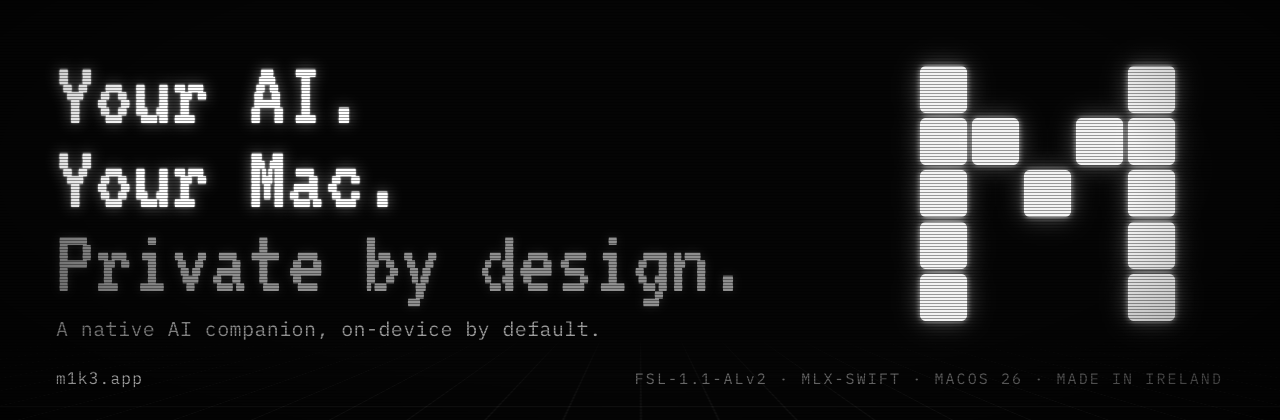
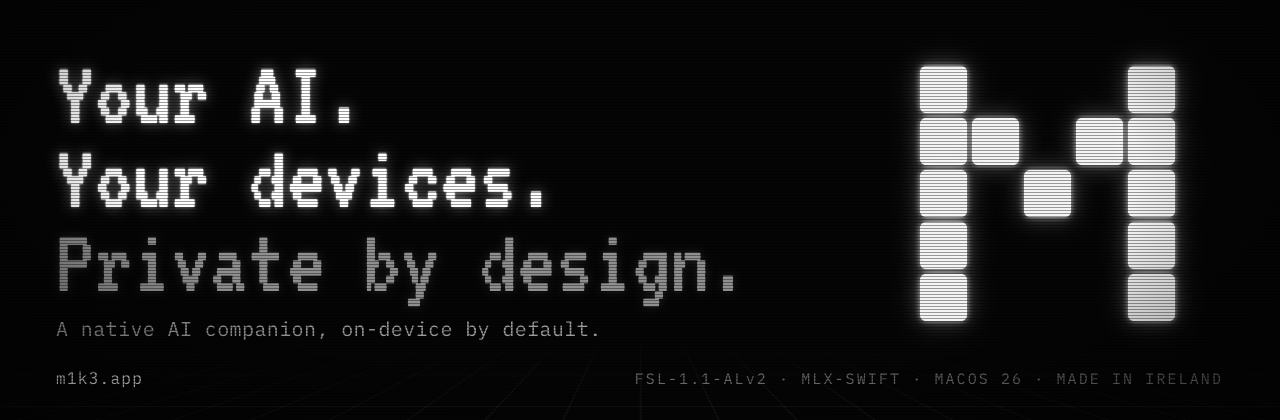
feat(brand): "Your AI. Your devices. Private by design." across the site, README and brand images (#664)
Kev's 2026-10-20 ruling: once iOS is live the tagline moves from 'Your Mac' to
'Your devices' in one pass. iOS 1.2.0 went live 2026-10-21. The home page's
title, og/twitter titles, h1 and hero sub, every page's og:image alt, the
README H1, SECURITY.md's promise and the manifest now say devices; og.png and
readme-hero.png are re-rendered (the share card's button reads 'Get it on the
App Store'). test_tagline.py pins one line everywhere. The App Store subtitle
never carried the tagline, so the store needs nothing.

Claude-Session: https://claude.ai/code/session_0144GMC5JuSWkq1nJjRUSict

Changed region(s): [[0.1875, 0.3405, 0.4375, 0.4952]]

diff --git a/site/index.html b/site/index.html
@@ -3,8 +3,8 @@
 <head>
 <meta charset="UTF-8" />
 <meta name="viewport" content="width=device-width, initial-scale=1.0" />
-<title>M1K3 for Mac — Your AI. Your Mac. Private by design.</title>
-<meta name="description" content="M1K3 is on-device AI for macOS. Local inference, live voice, a knowledge graph, encrypted call memory, and an MCP server — on your Mac by default, private by design." />
+<title>M1K3 — Your AI. Your devices. Private by design.</title>
+<meta name="description" content="M1K3 is on-device AI for Mac, iPhone and iPad. Local inference, live voice, a knowledge graph, encrypted call memory, and an MCP server — on your devices by default, private by design." />
 <meta name="robots" content="index, follow, max-image-preview:large, max-snippet:-1, max-video-preview:-1" />
 <!-- NOTE: canonical domain: m1k3.app (m1k3.ai + m1k3.bot 301-redirect here) (also in sitemap.xml, robots.txt, llms.txt) -->
 <link rel="canonical" href="https://m1k3.app/" />
@@ -28,19 +28,19 @@
 <meta name="theme-color" content="#050505" />
 <meta property="og:site_name" content="M1K3" />
 <meta property="og:locale" content="en_IE" />
-<meta property="og:title" content="M1K3 for Mac — Your AI. Your Mac. Private by design." />
-<meta property="og:description" content="Privacy-first local AI. On-device inference, voice, knowledge graph, MCP. Private by design — on your Mac by default." />
+<meta property="og:title" content="M1K3 — Your AI. Your devices. Private by design." />
+<meta property="og:description" content="Privacy-first local AI. On-device inference, voice, knowledge graph, MCP. Private by design — on your devices by default." />
 <meta property="og:type" content="website" />
 <meta property="og:url" content="https://m1k3.app/" />
 <meta property="og:image" content="https://m1k3.app/og.png" />
 <meta property="og:image:width" content="1200" />
 <meta property="og:image:height" content="630" />
-<meta property="og:image:alt" content="M1K3 for Mac — 'Your AI. Your Mac. Private by design.' A wireframe fox on a dark CRT grid; private, on-device AI for macOS." />
+<meta property="og:image:alt" content="M1K3 — 'Your AI. Your devices. Private by design.' A wireframe fox on a dark CRT grid; private, on-device AI for Mac, iPhone and iPad." />
 <meta name="twitter:card" content="summary_large_image" />
-<meta name="twitter:title" content="M1K3 for Mac — Your AI. Your Mac. Private by design." />
-<meta name="twitter:description" content="Privacy-first local AI for macOS. Private by design, on your Mac by default." />
+<meta name="twitter:title" content="M1K3 — Your AI. Your devices. Private by design." />
+<meta name="twitter:description" content="Privacy-first local AI for Mac, iPhone and iPad. Private by design, on your devices by default." />
 <meta name="twitter:image" content="https://m1k3.app/og.png" />
-<meta name="twitter:image:alt" content="M1K3 for Mac — 'Your AI. Your Mac. Private by design.' A wireframe fox on a dark CRT grid." />
+<meta name="twitter:image:alt" content="M1K3 — 'Your AI. Your devices. Private by design.' A wireframe fox on a dark CRT grid." />
 <script type="application/ld+json">
 {
   "@context": "https://schema.org",
@@ -463,8 +463,8 @@
 <header class="hero">
   <div class="hero-copy">
     <div class="boot" id="boot"></div>
-    <h1 class="headline reveal in">Your AI.<br />Your Mac.<br /><span class="dim" id="rotator">Private by design.</span></h1>
-    <p class="sub reveal in">M1K3 is local AI that runs <strong>entirely on your Mac</strong>. Local models, live voice, a knowledge graph that remembers everything — no account, no telemetry.</p>
+    <h1 class="headline reveal in">Your AI.<br />Your devices.<br /><span class="dim" id="rotator">Private by design.</span></h1>
+    <p class="sub reveal in">M1K3 is local AI that runs <strong>entirely on your devices</strong>. Local models, live voice, a knowledge graph that remembers everything — no account, no telemetry.</p>
     <div class="cta-row cta-mac reveal in">
       <a class="btn btn-primary" href="https://apps.apple.com/app/id6780230835?pt=120784482&amp;ct=site-hero&amp;mt=12"><svg class="apple-icon" viewBox="0 0 384 512"><path d="M318.7 268.7c-.2-36.7 16.4-64.4 50-84.8-18.8-27.1-46.9-42.2-83.7-45.4-35.4-3.3-74.1 20.7-88.5 20.7-15.2 0-49.6-19.7-76.3-19.2C82.4 141.1 46 163 25.8 197.4-17 266.7 3.4 370.5 48.3 425.1c21.4 26.8 47.4 57.1 81.6 56 32.3-1.2 44.6-20.9 83.7-20.9 38.5 0 49.7 20.9 83.8 20.3 35.3-.6 57.7-27.2 78.8-54.1 16.1-23 28.4-47 32.5-60.3-1.3-.5-62.4-24-63-95.4zm-59.1-174.5C277.7 72 294.3 42 291.3 0c-29.5 2-64.1 20.9-84.3 45.1-18.4 22-35.3 56.3-31 89.1 32.6 2.5 66-16.7 83.6-40z"/></svg>Get it on the Mac App Store</a>
       <a class="btn btn-ghost" href="https://github.com/Round-Tower/M1K3/releases/latest/download/M1K3.dmg">Download the DMG</a>
@@ -793,8 +793,8 @@ the action list?<br />
     if (shareBtn) {
       var canonical = document.querySelector('link[rel=canonical]');
       var shareData = {
-        title: 'M1K3 for Mac',
-        text: 'M1K3 — private AI that runs on your Mac. Private by design.',
+        title: 'M1K3',
+        text: 'M1K3 — private AI that runs on your devices. Private by design.',
         url: (canonical && canonical.href) || location.href
       };
       shareBtn.addEventListener('click', function () {
@@ -1138,6 +1138,10 @@ tick();
      WHEN iOS CLEARS REVIEW lands: on iPhone/iPad the away rows lead with "Get it for iPhone & iPad" (mt=8,
      ct=site-hero-ios / site-get-ios) and "Send it to my Mac" steps back to a ghost; the Mac's final row trades
      its TestFlight ghost for "Also on iPhone & iPad" (ct=site-get-mac-ios); JSON-LD operatingSystem names
-     iOS and iPadOS 26. dateModified NOT bumped. Confidence 0.85 (checked by test, not on a phone). -->
+     iOS and iPadOS 26. dateModified NOT bumped. Confidence 0.85 (checked by test, not on a phone).
+     Review: Kev + claude-opus-5.5, 2026-10-22 — "Your AI. Your devices. Private by design." (Kev's 2026-10-20
+     ruling, live with iOS 1.2.0): title, og/twitter titles and alts, the h1 and the hero sub say "devices";
+     the title drops "for Mac"; meta descriptions name Mac, iPhone and iPad; the share sheet says devices.
+     og.png re-rendered (its button now reads "Get it on the App Store"). Confidence 0.85. -->
 </body>
 </html>

diff --git a/site/teams.html b/site/teams.html
@@ -21,7 +21,7 @@
 <meta property="og:image" content="https://m1k3.app/og.png" />
 <meta property="og:image:width" content="1200" />
 <meta property="og:image:height" content="630" />
-<meta property="og:image:alt" content="M1K3 for Mac — 'Your AI. Your Mac. Private by design.' A wireframe fox on a dark CRT grid; private, on-device AI for macOS." />
+<meta property="og:image:alt" content="M1K3 — 'Your AI. Your devices. Private by design.' A wireframe fox on a dark CRT grid; private, on-device AI for Mac, iPhone and iPad." />
 <meta name="twitter:card" content="summary_large_image" />
 <meta name="twitter:title" content="M1K3 for Teams — Private AI on Your Own Hardware" />
 <meta name="twitter:description" content="The same on-device brains, an institutional memory, and a tuned persona — on your own Apple Silicon, under your own domain. Private by design, on hardware you own." />
@@ -208,6 +208,8 @@
      Review: Kev + claude-opus-5-5, 2026-10-13 — the footer's copyright line names Round Tower Software Ltd,
      the registered name (#574; Kev, 2026-10-11). Confidence 0.95.
      Review: Kev + claude-opus-5-5, 2026-10-13 — #572: the footer carries a GUIDES row linking all five guides
-     (each guide marks itself aria-current); guides also gain a BreadcrumbList. Confidence 0.9. -->
+     (each guide marks itself aria-current); guides also gain a BreadcrumbList. Confidence 0.9.
+     Review: Kev + claude-opus-5.5, 2026-10-22 — the og:image alt follows the new tagline ("Your AI. Your
+     devices. Private by design.", Kev's 2026-10-20 ruling, live with iOS 1.2.0). Confidence 0.9. -->
 </body>
 </html>

diff --git a/site/agents.html b/site/agents.html
@@ -21,7 +21,7 @@
 <meta property="og:image" content="https://m1k3.app/og.png" />
 <meta property="og:image:width" content="1200" />
 <meta property="og:image:height" content="630" />
-<meta property="og:image:alt" content="M1K3 for Mac — 'Your AI. Your Mac. Private by design.' A wireframe fox on a dark CRT grid; private, on-device AI for macOS." />
+<meta property="og:image:alt" content="M1K3 — 'Your AI. Your devices. Private by design.' A wireframe fox on a dark CRT grid; private, on-device AI for Mac, iPhone and iPad." />
 <meta name="twitter:card" content="summary_large_image" />
 <meta name="twitter:title" content="Connect your coding agent to M1K3" />
 <meta name="twitter:description" content="Give your coding agent a private, on-device resident — documents, memories, voice and a local brain over MCP at 127.0.0.1." />
@@ -348,6 +348,8 @@ Never block on it; carry on without it.
      Review: Kev + claude-opus-5-5, 2026-10-13 — the footer's copyright line names Round Tower Software Ltd,
      the registered name (#574; Kev, 2026-10-11). Confidence 0.95.
      Review: Kev + claude-opus-5-5, 2026-10-13 — #572: the footer carries a GUIDES row linking all five guides
-     (each guide marks itself aria-current); guides also gain a BreadcrumbList. Confidence 0.9. -->
+     (each guide marks itself aria-current); guides also gain a BreadcrumbList. Confidence 0.9.
+     Review: Kev + claude-opus-5.5, 2026-10-22 — the og:image alt follows the new tagline ("Your AI. Your
+     devices. Private by design.", Kev's 2026-10-20 ruling, live with iOS 1.2.0). Confidence 0.9. -->
 </body>
 </html>

diff --git a/site/install.html b/site/install.html
@@ -31,7 +31,7 @@
 <meta property="og:image" content="https://m1k3.app/og.png" />
 <meta property="og:image:width" content="1200" />
 <meta property="og:image:height" content="630" />
-<meta property="og:image:alt" content="M1K3 for Mac — 'Your AI. Your Mac. Private by design.' A wireframe fox on a dark CRT grid; private, on-device AI for macOS." />
+<meta property="og:image:alt" content="M1K3 — 'Your AI. Your devices. Private by design.' A wireframe fox on a dark CRT grid; private, on-device AI for Mac, iPhone and iPad." />
 <meta name="twitter:card" content="summary_large_image" />
 <meta name="twitter:title" content="Install M1K3 — two minutes, no account" />
 <meta name="twitter:description" content="Mac App Store, Homebrew or DMG. Say hello, flip one switch, connect your agent over MCP, verify. Private by design." />
@@ -518,6 +518,8 @@ m1k3 ask "what can you do?"</pre></div>
      Review: Kev + claude-opus-5-5, 2026-10-13 — #572: the footer carries a GUIDES row linking all five guides
      (each guide marks itself aria-current); guides also gain a BreadcrumbList. Confidence 0.9.
      Review: Kev + claude-opus-5.5, 2026-10-22 — iOS is live: the store route's TestFlight ghost becomes
-     "iPhone & iPad on the App Store" (mt=8, ct=site-install-ios). Confidence 0.85. -->
+     "iPhone & iPad on the App Store" (mt=8, ct=site-install-ios). Confidence 0.85.
+     Review: Kev + claude-opus-5.5, 2026-10-22 — the og:image alt follows the new tagline ("Your AI. Your
+     devices. Private by design.", Kev's 2026-10-20 ruling, live with iOS 1.2.0). Confidence 0.9. -->
 </body>
 </html>

diff --git a/site/companions.html b/site/companions.html
@@ -21,7 +21,7 @@
 <meta property="og:image" content="https://m1k3.app/og.png" />
 <meta property="og:image:width" content="1200" />
 <meta property="og:image:height" content="630" />
-<meta property="og:image:alt" content="M1K3 for Mac — 'Your AI. Your Mac. Private by design.' A wireframe fox on a dark CRT grid; private, on-device AI for macOS." />
+<meta property="og:image:alt" content="M1K3 — 'Your AI. Your devices. Private by design.' A wireframe fox on a dark CRT grid; private, on-device AI for Mac, iPhone and iPad." />
 <meta name="twitter:card" content="summary_large_image" />
 <meta name="twitter:title" content="Meet the Companions — M1K3's 3D Voice-Mode Creatures" />
 <meta name="twitter:description" content="Fox, Inkfish, Sparrow, Gecko, and Colobus — low-poly 3D companions for M1K3's voice mode, rendered entirely on your Mac." />
@@ -200,6 +200,8 @@
      Review: Kev + claude-opus-5-5, 2026-10-13 — the footer's copyright line names Round Tower Software Ltd,
      the registered name (#574; Kev, 2026-10-11). Confidence 0.95.
      Review: Kev + claude-opus-5-5, 2026-10-13 — #572: the footer carries a GUIDES row linking all five guides
-     (each guide marks itself aria-current); guides also gain a BreadcrumbList. Confidence 0.9. -->
+     (each guide marks itself aria-current); guides also gain a BreadcrumbList. Confidence 0.9.
+     Review: Kev + claude-opus-5.5, 2026-10-22 — the og:image alt follows the new tagline ("Your AI. Your
+     devices. Private by design.", Kev's 2026-10-20 ruling, live with iOS 1.2.0). Confidence 0.9. -->
 </body>
 </html>

diff --git a/site/mcp-knowledge-server.html b/site/mcp-knowledge-server.html
@@ -21,7 +21,7 @@
 <meta property="og:image" content="https://m1k3.app/og.png" />
 <meta property="og:image:width" content="1200" />
 <meta property="og:image:height" content="630" />
-<meta property="og:image:alt" content="M1K3 for Mac — 'Your AI. Your Mac. Private by design.' A wireframe fox on a dark CRT grid; private, on-device AI for macOS." />
+<meta property="og:image:alt" content="M1K3 — 'Your AI. Your devices. Private by design.' A wireframe fox on a dark CRT grid; private, on-device AI for Mac, iPhone and iPad." />
 <meta name="twitter:card" content="summary_large_image" />
 <meta name="twitter:title" content="Give Claude a Local Memory — M1K3 as an MCP Knowledge Server" />
 <meta name="twitter:description" content="Connect Claude to M1K3's on-device knowledge base over MCP — served from 127.0.0.1, never the cloud." />
@@ -262,6 +262,8 @@
      Review: Kev + claude-opus-5-5, 2026-10-13 — the footer's copyright line names Round Tower Software Ltd,
      the registered name (#574; Kev, 2026-10-11). Confidence 0.95.
      Review: Kev + claude-opus-5-5, 2026-10-13 — #572: the footer carries a GUIDES row linking all five guides
-     (each guide marks itself aria-current); guides also gain a BreadcrumbList. Confidence 0.9. -->
+     (each guide marks itself aria-current); guides also gain a BreadcrumbList. Confidence 0.9.
+     Review: Kev + claude-opus-5.5, 2026-10-22 — the og:image alt follows the new tagline ("Your AI. Your
+     devices. Private by design.", Kev's 2026-10-20 ruling, live with iOS 1.2.0). Confidence 0.9. -->
 </body>
 </html>

diff --git a/site/golden-gate-on-device-ai.html b/site/golden-gate-on-device-ai.html
@@ -21,7 +21,7 @@
 <meta property="og:image" content="https://m1k3.app/og.png" />
 <meta property="og:image:width" content="1200" />
 <meta property="og:image:height" content="630" />
-<meta property="og:image:alt" content="M1K3 for Mac — 'Your AI. Your Mac. Private by design.' A wireframe fox on a dark CRT grid; private, on-device AI for macOS." />
+<meta property="og:image:alt" content="M1K3 — 'Your AI. Your devices. Private by design.' A wireframe fox on a dark CRT grid; private, on-device AI for Mac, iPhone and iPad." />
 <meta name="twitter:card" content="summary_large_image" />
 <meta name="twitter:title" content="What Golden Gate Actually Ships for On-Device AI (macOS 27)" />
 <meta name="twitter:description" content="We probed the macOS 27 SDK the day the beta landed. Here's what changed — measured, not speculated." />
@@ -220,6 +220,8 @@
      Review: Kev + claude-opus-5-5, 2026-10-13 — the footer's copyright line names Round Tower Software Ltd,
      the registered name (#574; Kev, 2026-10-11). Confidence 0.95.
      Review: Kev + claude-opus-5-5, 2026-10-13 — #572: the footer carries a GUIDES row linking all five guides
-     (each guide marks itself aria-current); guides also gain a BreadcrumbList. Confidence 0.9. -->
+     (each guide marks itself aria-current); guides also gain a BreadcrumbList. Confidence 0.9.
+     Review: Kev + claude-opus-5.5, 2026-10-22 — the og:image alt follows the new tagline ("Your AI. Your
+     devices. Private by design.", Kev's 2026-10-20 ruling, live with iOS 1.2.0). Confidence 0.9. -->
 </body>
 </html>

diff --git a/site/private-chatgpt-alternative-mac.html b/site/private-chatgpt-alternative-mac.html
@@ -21,7 +21,7 @@
 <meta property="og:image" content="https://m1k3.app/og.png" />
 <meta property="og:image:width" content="1200" />
 <meta property="og:image:height" content="630" />
-<meta property="og:image:alt" content="M1K3 for Mac — 'Your AI. Your Mac. Private by design.' A wireframe fox on a dark CRT grid; private, on-device AI for macOS." />
+<meta property="og:image:alt" content="M1K3 — 'Your AI. Your devices. Private by design.' A wireframe fox on a dark CRT grid; private, on-device AI for Mac, iPhone and iPad." />
 <meta name="twitter:card" content="summary_large_image" />
 <meta name="twitter:title" content="Private ChatGPT Alternative for Mac (2026)" />
 <meta name="twitter:description" content="On-device AI is private by architecture, not by policy. Compare M1K3, Ollama, LM Studio, and the ChatGPT desktop app." />
@@ -248,6 +248,8 @@
      Review: Kev + claude-opus-5-5, 2026-10-13 — the footer's copyright line names Round Tower Software Ltd,
      the registered name (#574; Kev, 2026-10-11). Confidence 0.95.
      Review: Kev + claude-opus-5-5, 2026-10-13 — #572: the footer carries a GUIDES row linking all five guides
-     (each guide marks itself aria-current); guides also gain a BreadcrumbList. Confidence 0.9. -->
+     (each guide marks itself aria-current); guides also gain a BreadcrumbList. Confidence 0.9.
+     Review: Kev + claude-opus-5.5, 2026-10-22 — the og:image alt follows the new tagline ("Your AI. Your
+     devices. Private by design.", Kev's 2026-10-20 ruling, live with iOS 1.2.0). Confidence 0.9. -->
 </body>
 </html>

diff --git a/site/vs-ollama.html b/site/vs-ollama.html
@@ -21,7 +21,7 @@
 <meta property="og:image" content="https://m1k3.app/og.png" />
 <meta property="og:image:width" content="1200" />
 <meta property="og:image:height" content="630" />
-<meta property="og:image:alt" content="M1K3 for Mac — 'Your AI. Your Mac. Private by design.' A wireframe fox on a dark CRT grid; private, on-device AI for macOS." />
+<meta property="og:image:alt" content="M1K3 — 'Your AI. Your devices. Private by design.' A wireframe fox on a dark CRT grid; private, on-device AI for Mac, iPhone and iPad." />
 <meta name="twitter:card" content="summary_large_image" />
 <meta name="twitter:title" content="M1K3 vs Ollama — What's the Difference? (2026)" />
 <meta name="twitter:description" content="Ollama is a local model server you build on; M1K3 is a finished, private AI app for the Mac." />
@@ -232,6 +232,8 @@
      Review: Kev + claude-opus-5-5, 2026-10-13 — the footer's copyright line names Round Tower Software Ltd,
      the registered name (#574; Kev, 2026-10-11). Confidence 0.95.
      Review: Kev + claude-opus-5-5, 2026-10-13 — #572: the footer carries a GUIDES row linking all five guides
-     (each guide marks itself aria-current); guides also gain a BreadcrumbList. Confidence 0.9. -->
+     (each guide marks itself aria-current); guides also gain a BreadcrumbList. Confidence 0.9.
+     Review: Kev + claude-opus-5.5, 2026-10-22 — the og:image alt follows the new tagline ("Your AI. Your
+     devices. Private by design.", Kev's 2026-10-20 ruling, live with iOS 1.2.0). Confidence 0.9. -->
 </body>
 </html>

diff --git a/site/local-llm-mac-guide.html b/site/local-llm-mac-guide.html
@@ -21,7 +21,7 @@
 <meta property="og:image" content="https://m1k3.app/og.png" />
 <meta property="og:image:width" content="1200" />
 <meta property="og:image:height" content="630" />
-<meta property="og:image:alt" content="M1K3 for Mac — 'Your AI. Your Mac. Private by design.' A wireframe fox on a dark CRT grid; private, on-device AI for macOS." />
+<meta property="og:image:alt" content="M1K3 — 'Your AI. Your devices. Private by design.' A wireframe fox on a dark CRT grid; private, on-device AI for Mac, iPhone and iPad." />
 <meta name="twitter:card" content="summary_large_image" />
 <meta name="twitter:title" content="How to Run a Local LLM on a Mac (2026 Guide)" />
 <meta name="twitter:description" content="What hardware you need and the four main routes — Ollama, LM Studio, Apple's MLX, and M1K3." />
@@ -252,6 +252,8 @@
      Review: Kev + claude-opus-5-5, 2026-10-13 — the footer's copyright line names Round Tower Software Ltd,
      the registered name (#574; Kev, 2026-10-11). Confidence 0.95.
      Review: Kev + claude-opus-5-5, 2026-10-13 — #572: the footer carries a GUIDES row linking all five guides
-     (each guide marks itself aria-current); guides also gain a BreadcrumbList. Confidence 0.9. -->
+     (each guide marks itself aria-current); guides also gain a BreadcrumbList. Confidence 0.9.
+     Review: Kev + claude-opus-5.5, 2026-10-22 — the og:image alt follows the new tagline ("Your AI. Your
+     devices. Private by design.", Kev's 2026-10-20 ruling, live with iOS 1.2.0). Confidence 0.9. -->
 </body>
 </html>

diff --git a/site/privacy.html b/site/privacy.html
@@ -21,7 +21,7 @@
 <meta property="og:image" content="https://m1k3.app/og.png" />
 <meta property="og:image:width" content="1200" />
 <meta property="og:image:height" content="630" />
-<meta property="og:image:alt" content="M1K3 for Mac — 'Your AI. Your Mac. Private by design.' A wireframe fox on a dark CRT grid; private, on-device AI for macOS." />
+<meta property="og:image:alt" content="M1K3 — 'Your AI. Your devices. Private by design.' A wireframe fox on a dark CRT grid; private, on-device AI for Mac, iPhone and iPad." />
 <meta name="twitter:card" content="summary_large_image" />
 <meta name="twitter:title" content="Privacy Policy — Is M1K3 Really Private?" />
 <meta name="twitter:description" content="What runs on your Mac, what ever touches the network, and how to verify it — including the exceptions." />
@@ -305,6 +305,8 @@
      something we measured. Pre-push review fold: encryption claimed only for the stores that have it;
      web tools name Wikipedia and page reads (EgressDisclosure); /vr's jsDelivr three.js named as the
      one third-party load; email gets a lawful basis and a retention. Open: Kev confirms Netlify
-     Analytics is off on the dashboard. -->
+     Analytics is off on the dashboard.
+     Review: Kev + claude-opus-5.5, 2026-10-22 — the og:image alt follows the new tagline ("Your AI. Your
+     devices. Private by design.", Kev's 2026-10-20 ruling, live with iOS 1.2.0). Confidence 0.9. -->
 </body>
 </html>

diff --git a/site/terms.html b/site/terms.html
@@ -21,7 +21,7 @@
 <meta property="og:image" content="https://m1k3.app/og.png" />
 <meta property="og:image:width" content="1200" />
 <meta property="og:image:height" content="630" />
-<meta property="og:image:alt" content="M1K3 for Mac — 'Your AI. Your Mac. Private by design.' A wireframe fox on a dark CRT grid; private, on-device AI for macOS." />
+<meta property="og:image:alt" content="M1K3 — 'Your AI. Your devices. Private by design.' A wireframe fox on a dark CRT grid; private, on-device AI for Mac, iPhone and iPad." />
 <meta name="twitter:card" content="summary_large_image" />
 <meta name="twitter:title" content="Terms of Service — M1K3" />
 <meta name="twitter:description" content="The terms for using M1K3, the free on-device AI for Mac, iPhone and iPad by Round Tower Software Ltd." />
@@ -170,6 +170,8 @@
      named; Mini fallback downloads itself; web tools name Wikipedia and page reads;
      §5 is acceptable use of the apps and site, the licence governs source copies;
      §6 carves out the web tools and PCC; §10 says the container and Keychain item
-     outlive the app; §11 changes apply forwards only. -->
+     outlive the app; §11 changes apply forwards only.
+     Review: Kev + claude-opus-5.5, 2026-10-22 — the og:image alt follows the new tagline ("Your AI. Your
+     devices. Private by design.", Kev's 2026-10-20 ruling, live with iOS 1.2.0). Confidence 0.9. -->
 </body>
 </html>
